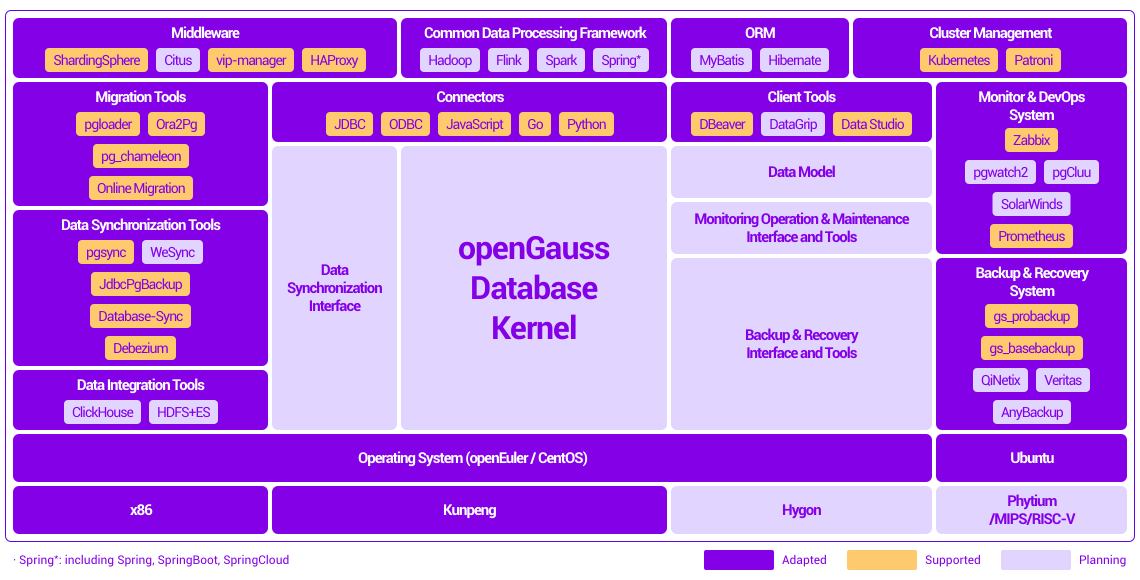
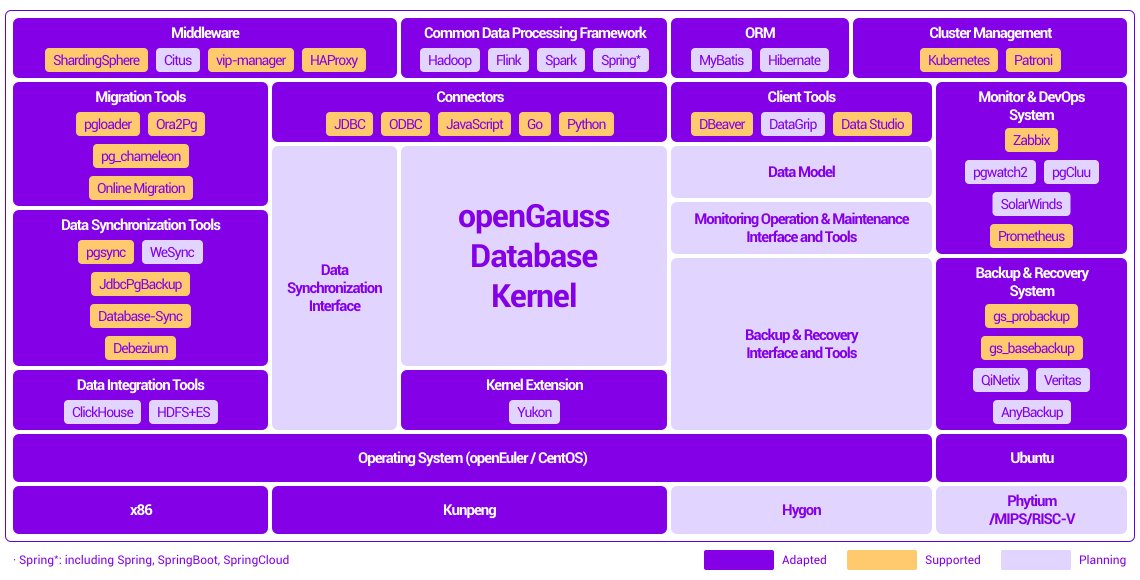
update supportTools

diff --git a/themes/project/static/js/support-tools.js b/themes/project/static/js/support-tools.js
@@ -3,7 +3,7 @@ $('.left-tools').find('div').on('click', function (event) {
     event.preventDefault();
     $(this).addClass('active').siblings().removeClass('active');
     let id = $(this).find('a').attr('href');
-    let toTop = ['#connectors', '#middleware', '#management', '#migrationTools', '#dataTools', '#dataModel', '#clientTools', '#devOpsTools'];
+    let toTop = ['#connectors', '#middleware', '#management', '#migrationTools', '#dataTools', '#dataModel', '#clientTools', '#devOpsTools', '#kernelExtensions'];
     toTop.forEach((item, index) => {
      if (item === id){
          // 100 是距离顶端的基础值， 260 是 tool-item 的高度及下边距
@@ -30,7 +30,7 @@ if ($(window).width() < 1000) {
 } else {
     $(window).scroll(function () {
         let top = $(window).scrollTop();
-        // console.log('top', top)
+        //console.log('top', top)
         if (top <= 880) {
             $('.left-tools div:nth-child(1)').addClass('active').siblings().removeClass('active');
         } else if ((top >= 1080) && (top < 1280)) {
@@ -45,8 +45,10 @@ if ($(window).width() < 1000) {
             $('.left-tools div:nth-child(6)').addClass('active').siblings().removeClass('active');
         } else if ((top >= 2380) && (top < 2680)) {
             $('.left-tools div:nth-child(7)').addClass('active').siblings().removeClass('active');
-        } else if (top >= 2680) {
+        } else if ((top >= 2680) && (top < 2880)) {
             $('.left-tools div:nth-child(8)').addClass('active').siblings().removeClass('active');
+        }else if (top >= 2880) {
+            $('.left-tools div:nth-child(9)').addClass('active').siblings().removeClass('active');
         }
         if (top >= 880) {
             $('.left-tools').removeClass('hide')

diff --git a/themes/project/static/js/openGauss.js b/themes/project/static/js/openGauss.js
@@ -17,17 +17,20 @@ $(document).ready(function() {
       type: 'bullets',
       clickable :true,
     },
-  })
-  //鼠标覆盖停止自动切换与隐藏前进后退按钮
-  myBannerSwiper.el.onmouseover = function(){ 
-	  myBannerSwiper.navigation.$nextEl.removeClass('hide');
-	  myBannerSwiper.navigation.$prevEl.removeClass('hide');
+  }) 
+  if(myBannerSwiper.el){
+    //鼠标覆盖停止自动切换与隐藏前进后退按钮
+    myBannerSwiper.el.onmouseover = function(){ 
+      myBannerSwiper.navigation.$nextEl.removeClass('hide');
+      myBannerSwiper.navigation.$prevEl.removeClass('hide');
+    }
+    //鼠标覆盖停止自动切换与隐藏前进后退按钮
+    myBannerSwiper.el.onmouseout = function(){
+      myBannerSwiper.navigation.$nextEl.addClass('hide');
+      myBannerSwiper.navigation.$prevEl.addClass('hide');
+    }
   }
-  //鼠标覆盖停止自动切换与隐藏前进后退按钮
-  myBannerSwiper.el.onmouseout = function(){
-	  myBannerSwiper.navigation.$nextEl.addClass('hide');
-	  myBannerSwiper.navigation.$prevEl.addClass('hide');
-  }
+  
 
   // 文档页面语言切换
   var currentUrl = window.location.href;

diff --git a/content/en/supportTools/_index.md b/content/en/supportTools/_index.md
@@ -41,6 +41,10 @@ name = "Client Tools"
 identification = "devOpsTools"
 name = "Monitor & DevOps System"
 
+[[list]]
+identification = "kernelExtensions"
+name = "Kernel Extension"
+
 [[cards]]
 iden = "connectors"
 name = "psycopg2"
@@ -111,24 +115,24 @@ weight = 2
 iden = "migrationTools"
 name = "Ora2Pg"
 desc = "Database migration tool from Oracle to PostgreSQL"
-address = "https://github.com/darold/ora2pg"
-guide = "https://ora2pg.darold.net/documentation.html"
+address = "https://gitee.com/opengauss/openGauss-tools-ora2og"
+guide = "https://gitee.com/opengauss/openGauss-tools-ora2og/blob/master/README.md"
 weight = 1
 
 [[cards]]
 iden = "migrationTools"
 name = "pg_chameleon"
 desc = "Database migration tool from MySQL to PostgreSQL"
-address = "https://github.com/the4thdoctor/pg_chameleon"
-guide = "https://pgchameleon.org/documents/"
+address = "https://gitee.com/opengauss/openGauss-tools-chameleon"
+guide = "https://gitee.com/opengauss/openGauss-tools-chameleon/blob/master/chameleon%E4%BD%BF%E7%94%A8%E6%8C%87%E5%8D%97.pdf"
 weight = 2
 
 [[cards]]
 iden = "migrationTools"
 name = "pgloader"
 desc = "A data import tool that uses the COPY command to import data into PostgreSQL"
-address = "https://github.com/dimitri/pgloader"
-guide = "https://opengauss.org/zh/blogs/blogs.html?post/totaj/%E5%A6%82%E4%BD%95%E4%BD%BF%E7%94%A8pgloader%E8%BF%81%E7%A7%BBmysql%E6%95%B0%E6%8D%AE%E5%BA%93%E8%87%B3opengauss/"
+address = "https://gitee.com/opengauss/openGauss-tools-loader"
+guide = "https://gitee.com/opengauss/openGauss-tools-loader/blob/master/pgloader%E4%BD%BF%E7%94%A8%E6%8C%87%E5%8D%97.pdf"
 weight = 3
 
 [[cards]]
@@ -194,4 +198,14 @@ desc = "The open source monitoring system performs very well in recording pure d
 address = "https://github.com/prometheus/prometheus"
 guide = "https://prometheus.io/docs/introduction/overview/"
 weight = 2
+
+[[cards]] 
+iden = "kernelExtensions"
+name = "Yukon"
+desc = "Provide professional GIS (Geographic Information System) ability"
+address = "https://gitee.com/opengauss/Yukon"
+guide = "https://yukon.supermap.io/" 
+weight = 1   
+
+
 +++

diff --git a/content/zh/supportTools/_index.md b/content/zh/supportTools/_index.md
@@ -41,6 +41,11 @@ name = "客户端工具"
 identification = "devOpsTools"
 name = "监控运维系统"
 
+[[list]]
+identification = "kernelExtensions"
+name = "内核扩展"
+
+
 [[cards]]
 iden = "connectors"
 name = "psycopg2"
@@ -111,24 +116,24 @@ weight = 2
 iden = "migrationTools"
 name = "Ora2Pg"
 desc = "Oracle到PostgreSQL数据迁移工具"
-address = "https://github.com/darold/ora2pg"
-guide = "https://ora2pg.darold.net/documentation.html"
+address = "https://gitee.com/opengauss/openGauss-tools-ora2og"
+guide = "https://gitee.com/opengauss/openGauss-tools-ora2og/blob/master/README.md"
 weight = 1
 
 [[cards]]
 iden = "migrationTools"
 name = "pg_chameleon"
 desc = "MySQL到PostgreSQL数据迁移工具"
-address = "https://github.com/the4thdoctor/pg_chameleon"
-guide = "https://pgchameleon.org/documents/"
+address = "https://gitee.com/opengauss/openGauss-tools-chameleon"
+guide = "https://gitee.com/opengauss/openGauss-tools-chameleon/blob/master/chameleon%E4%BD%BF%E7%94%A8%E6%8C%87%E5%8D%97.pdf"
 weight = 2
 
 [[cards]]
 iden = "migrationTools"
 name = "pgloader"
 desc = "一个数据导入工具，使用COPY命令将数据导入到PostgreSQL"
-address = "https://github.com/dimitri/pgloader"
-guide = "https://opengauss.org/zh/blogs/blogs.html?post/totaj/%E5%A6%82%E4%BD%95%E4%BD%BF%E7%94%A8pgloader%E8%BF%81%E7%A7%BBmysql%E6%95%B0%E6%8D%AE%E5%BA%93%E8%87%B3opengauss/"
+address = "https://gitee.com/opengauss/openGauss-tools-loader"
+guide = "https://gitee.com/opengauss/openGauss-tools-loader/blob/master/pgloader%E4%BD%BF%E7%94%A8%E6%8C%87%E5%8D%97.pdf"
 weight = 3
 
 [[cards]]
@@ -194,4 +199,14 @@ desc = "开源监控系统，在记录纯数字时间序列方面表现非常好
 address = "https://github.com/prometheus/prometheus"
 guide = "https://prometheus.io/docs/introduction/overview/"
 weight = 2
+
+
+[[cards]] 
+iden = "kernelExtensions"
+name = "禹贡"
+desc = "提供专业的GIS（Geographic Information System）能力"
+address = "https://gitee.com/opengauss/Yukon"
+guide = "https://yukon.supermap.io/" 
+weight = 1   
+
 +++
